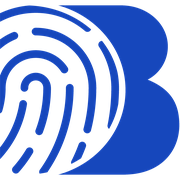
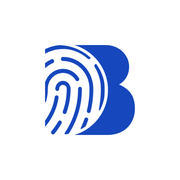
fix(branding): 로고 적용 방식을 admin-frontend와 통일
- BrandMark(흰 배지 안에 PNG) 삭제 → admin-frontend의 Logo 컴포넌트 이식
  SVG mask + currentColor 방식으로 어느 배경에서든 단색 렌더
- public/logo.png / logo.svg / logo-white.png 동일 자산 반입
- src/app/icon.png / apple-icon.png 를 favicon-32 / favicon-180 로 교체
- Sidebar: `text-white` 흰색 심볼, 로그인: `text-zinc-900` 진한 색
  (크기·정렬은 admin-frontend OnboardingPage 패턴 그대로)

diff --git a/src/components/Logo.tsx b/src/components/Logo.tsx
@@ -1,0 +1,16 @@
+interface Props {
+  className?: string
+}
+
+export default function Logo({ className = 'w-8 h-8' }: Props) {
+  return (
+    <svg xmlns="http://www.w3.org/2000/svg" viewBox="0 0 304 304" className={className} aria-label="대박통신 로고">
+      <defs>
+        <mask id="logoMask" maskUnits="userSpaceOnUse" x="0" y="0" width="304" height="304" maskContentUnits="userSpaceOnUse" style={{ maskType: 'alpha' as const }}>
[1 lines of base64/hex data omitted]
+        </mask>
+      </defs>
+      <rect x="0" y="0" width="304" height="304" fill="currentColor" mask="url(#logoMask)"/>
+    </svg>
+  )
+}

diff --git a/src/components/Sidebar.tsx b/src/components/Sidebar.tsx
@@ -3,7 +3,7 @@
 import Link from 'next/link';
 import { usePathname } from 'next/navigation';
 import { useEffect, useState } from 'react';
-import { BrandMark } from './BrandMark';
+import Logo from './Logo';
 
 type NavItem =
   | { type: 'section'; label: string }
@@ -29,10 +29,8 @@ export function Sidebar() {
   const [open, setOpen] = useState(false);
   const pathname = usePathname();
 
-  // 경로 이동 시 모바일 drawer 자동 닫기
   useEffect(() => { setOpen(false); }, [pathname]);
 
-  // drawer 열려있을 때 body 스크롤 잠금
   useEffect(() => {
     if (open) {
       const prev = document.body.style.overflow;
@@ -43,14 +41,14 @@ export function Sidebar() {
 
   return (
     <>
-      {/* 모바일 상단바 (lg 미만에서만) */}
+      {/* 모바일 상단바 */}
       <header
         className="sticky top-0 z-30 flex h-14 items-center justify-between px-4 lg:hidden"
         style={{ background: 'var(--ink)', color: '#e6e9f2' }}
       >
-        <Link href="/dashboard" className="flex items-center gap-2">
-          <BrandMark size={28} />
-          <span className="text-[13px] font-extrabold tracking-tight text-white">대박통신</span>
+        <Link href="/dashboard" className="flex items-center gap-2.5">
+          <Logo className="h-6 w-6 text-white" />
+          <span className="text-[14px] font-extrabold tracking-tight text-white">대박통신</span>
         </Link>
         <button
           type="button"
@@ -67,7 +65,6 @@ export function Sidebar() {
         </button>
       </header>
 
-      {/* 모바일 backdrop */}
       {open ? (
         <button
           type="button"
@@ -80,18 +77,15 @@ export function Sidebar() {
       <aside
         className={[
           'flex flex-col px-4 py-5',
-          // 모바일: 화면 밖에 대기하다가 open 시 슬라이드인
           'fixed inset-y-0 left-0 z-50 w-[260px] transition-transform duration-200',
           open ? 'translate-x-0' : '-translate-x-full',
-          // lg 이상: 기존처럼 sticky 상단
           'lg:sticky lg:top-0 lg:h-screen lg:w-[232px] lg:translate-x-0',
         ].join(' ')}
         style={{ background: 'var(--ink)', color: '#e6e9f2' }}
       >
-        {/* 브랜드 */}
         <div className="mb-5 flex items-center justify-between pr-1">
           <Link href="/dashboard" className="flex items-center gap-2.5 px-2 pt-1">
-            <BrandMark size={32} />
+            <Logo className="h-8 w-8 shrink-0 text-white" />
             <div>
               <div className="text-[14px] font-extrabold tracking-tight text-white">대박통신</div>
               <div className="mt-0.5 text-[11px]" style={{ color: '#8a93ad' }}>
@@ -112,7 +106,6 @@ export function Sidebar() {
           </button>
         </div>
 
-        {/* 네비 */}
         <nav className="flex flex-col gap-0.5 text-[14px]">
           {NAV.map((item, i) =>
             'type' in item ? (
@@ -139,11 +132,7 @@ export function Sidebar() {
           )}
         </nav>
 
-        {/* 하단 */}
-        <div
-          className="mt-auto border-t pt-3.5"
-          style={{ borderColor: '#1b2142' }}
-        >
+        <div className="mt-auto border-t pt-3.5" style={{ borderColor: '#1b2142' }}>
           <div className="mb-3 flex items-center gap-2.5 rounded-[10px] p-1.5">
             <div
               className="grid h-8 w-8 place-items-center rounded-full font-extrabold"

diff --git a/src/app/login/page.tsx b/src/app/login/page.tsx
@@ -1,4 +1,4 @@
-import { BrandMark } from '@/components/BrandMark';
+import Logo from '@/components/Logo';
 
 type SearchParams = Promise<{ next?: string; error?: string }>;
 
@@ -9,11 +9,11 @@ export default async function LoginPage({ searchParams }: { searchParams: Search
       <form
         method="post"
         action="/api/login"
-        className="w-full max-w-sm space-y-4 rounded-2xl border border-zinc-200 bg-white p-8 shadow-sm"
+        className="w-full max-w-sm space-y-5 rounded-2xl border border-zinc-200 bg-white p-8 shadow-sm"
       >
-        <div className="flex items-center gap-3">
-          <BrandMark size={44} />
-          <div>
+        <div className="flex flex-col items-center gap-2">
+          <Logo className="h-12 w-12 text-zinc-900" />
+          <div className="text-center">
             <h1 className="text-xl font-bold tracking-tight">대박통신</h1>
             <p className="text-sm text-zinc-500">단가표 시스템</p>
           </div>
